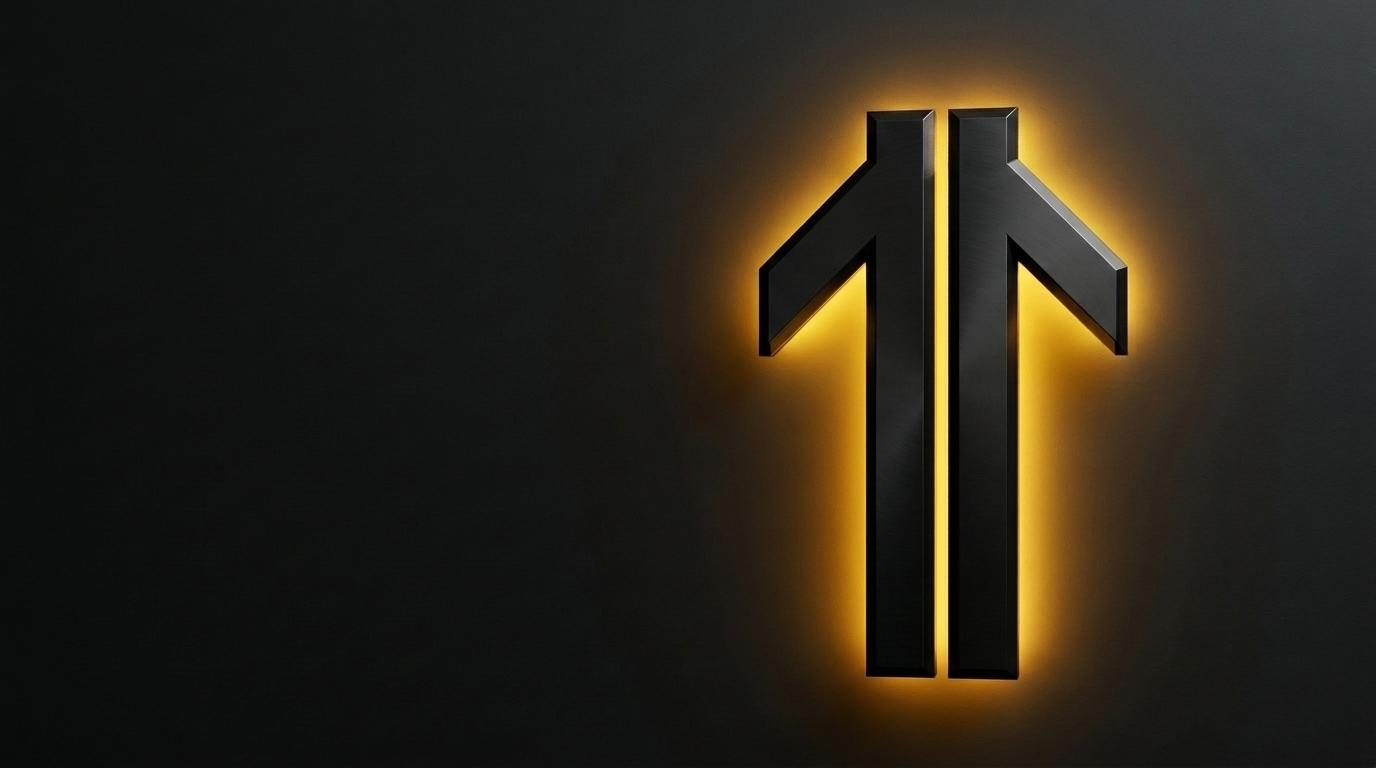
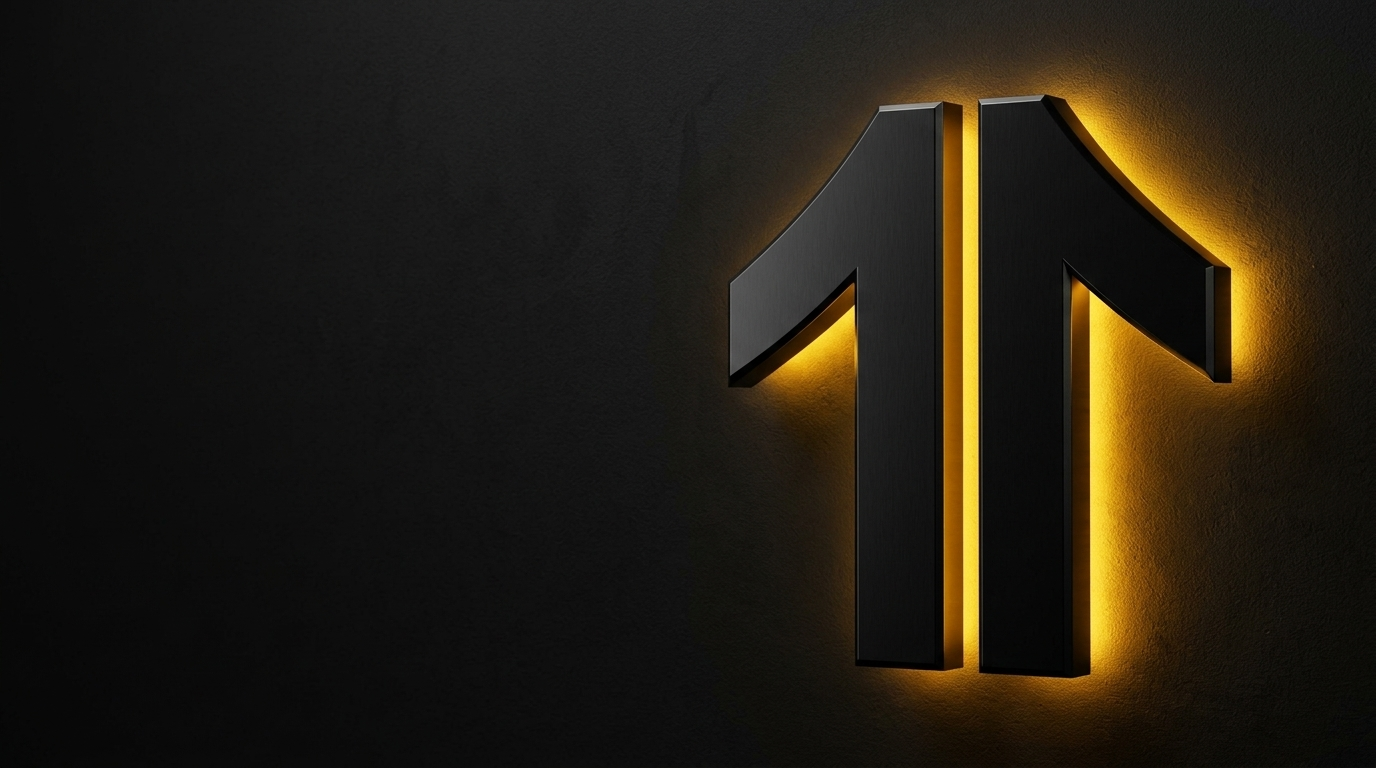
fix(theme): alto contraste en toast de notificaciones para modo claro y oscuro, y nuevo wallpaper 3D con corte exacto del brand UPN

Changed region(s): [[0.5, 0.0, 1.0, 0.9688]]

diff --git a/src/components/LiveNotificationToast.tsx b/src/components/LiveNotificationToast.tsx
@@ -50,88 +50,30 @@ export const LiveNotificationToast: React.FC<LiveNotificationToastProps> = ({
   if (!notification) return null;
 
   return (
-    <div
-      className={`live-toast-notification ${isClosing ? 'closing' : ''}`}
-      style={{
-        position: 'fixed',
-        top: '20px',
-        right: '20px',
-        zIndex: 10002,
-        maxWidth: '380px',
-        width: 'calc(100vw - 40px)',
-        borderRadius: '14px',
-        backgroundColor: 'var(--bg-acrylic-popover, #0f172a)',
-        color: 'var(--text-primary, #ffffff)',
-        backdropFilter: 'blur(20px)',
-        WebkitBackdropFilter: 'blur(20px)',
-        border: '1.5px solid var(--accent-primary, #6366f1)',
-        boxShadow: '0 20px 45px -10px rgba(0, 0, 0, 0.45), 0 0 20px rgba(99, 102, 241, 0.35)',
-        overflow: 'hidden',
-        animation: 'slideInRight 0.35s cubic-bezier(0.16, 1, 0.3, 1)'
-      }}
-    >
+    <div className={`live-toast-notification ${isClosing ? 'closing' : ''}`}>
       <div style={{ padding: '14px 16px', display: 'flex', alignItems: 'flex-start', gap: '12px' }}>
         {/* Animated Chime Icon */}
-        <div
-          style={{
-            width: '38px',
-            height: '38px',
-            borderRadius: '10px',
-            backgroundColor: 'rgba(99, 102, 241, 0.2)',
-            border: '1px solid var(--accent-primary)',
-            display: 'flex',
-            alignItems: 'center',
-            justifyContent: 'center',
-            color: 'var(--accent-primary)',
-            flexShrink: 0,
-            animation: 'pulse 1.8s infinite'
-          }}
-        >
-          <Headphones size={20} />
+        <div className="live-toast-icon-box">
+          <Headphones size={20} strokeWidth={2.4} />
         </div>
 
         {/* Info */}
         <div style={{ flex: 1, minWidth: 0 }}>
-          <div style={{ display: 'flex', alignItems: 'center', gap: '6px', marginBottom: '2px' }}>
-            <span
-              style={{
-                fontSize: '0.62rem',
-                fontWeight: 900,
-                textTransform: 'uppercase',
-                letterSpacing: '0.06em',
-                padding: '2px 6px',
-                borderRadius: '4px',
-                backgroundColor: '#ef4444',
-                color: '#ffffff'
-              }}
-            >
+          <div style={{ display: 'flex', alignItems: 'center', gap: '6px', marginBottom: '3px' }}>
+            <span className="live-toast-badge">
               Nuevo Ticket STIVIE
             </span>
-            <span style={{ fontSize: '0.68rem', color: 'var(--text-muted)' }}>
+            <span className="live-toast-meta">
               {notification.ticketId}
             </span>
           </div>
 
-          <div style={{ fontSize: '0.82rem', fontWeight: 800, color: 'var(--text-primary)', marginBottom: '3px' }}>
-            {notification.userName || 'Usuario Docente'}{' '}
-            <span style={{ fontSize: '0.74rem', fontWeight: 600, color: 'var(--text-secondary)' }}>
-              ({notification.hostname})
-            </span>
+          <div style={{ marginBottom: '4px' }}>
+            <span className="live-toast-user">{notification.userName || 'Usuario Docente'}</span>{' '}
+            <span className="live-toast-host">({notification.hostname})</span>
           </div>
 
-          <div
-            style={{
-              fontSize: '0.74rem',
-              color: 'var(--text-secondary)',
-              lineHeight: 1.35,
-              overflow: 'hidden',
-              textOverflow: 'ellipsis',
-              display: '-webkit-box',
-              WebkitLineClamp: 2,
-              WebkitBoxOrient: 'vertical',
-              marginBottom: '10px'
-            }}
-          >
+          <div className="live-toast-desc">
             "{notification.description}"
           </div>
 
@@ -142,10 +84,10 @@ export const LiveNotificationToast: React.FC<LiveNotificationToastProps> = ({
               onClick={() => onAtender(notification)}
               className="btn-primary"
               style={{
-                padding: '5px 12px',
+                padding: '6px 14px',
                 fontSize: '0.74rem',
                 fontWeight: 800,
-                borderRadius: '6px',
+                borderRadius: '8px',
                 display: 'inline-flex',
                 alignItems: 'center',
                 gap: '6px',
@@ -153,9 +95,9 @@ export const LiveNotificationToast: React.FC<LiveNotificationToastProps> = ({
               }}
             >
               <span>Atender Ahora</span>
-              <ArrowRight size={13} />
+              <ArrowRight size={13} strokeWidth={2.5} />
             </button>
-            <span style={{ fontSize: '0.68rem', color: 'var(--text-muted)' }}>
+            <span className="live-toast-meta">
               {notification.category}
             </span>
           </div>
@@ -165,22 +107,21 @@ export const LiveNotificationToast: React.FC<LiveNotificationToastProps> = ({
         <button
           type="button"
           onClick={requestClose}
-          className="btn-flat"
-          style={{ width: '22px', height: '22px', padding: 0, borderRadius: '4px', color: 'var(--text-muted)' }}
+          className="modal-close-btn"
+          style={{ width: '28px', height: '28px', minWidth: '28px', minHeight: '28px' }}
           title="Cerrar aviso"
+          aria-label="Cerrar aviso"
         >
-          <X size={13} />
+          <X size={14} strokeWidth={2.4} />
         </button>
       </div>
 
       {/* Progress countdown bar */}
-      <div style={{ width: '100%', height: '3px', backgroundColor: 'rgba(255, 255, 255, 0.08)' }}>
+      <div className="live-toast-progress-track">
         <div
+          className="live-toast-progress-bar"
           style={{
-            height: '100%',
-            width: `${progress}%`,
-            backgroundColor: 'var(--accent-primary, #6366f1)',
-            transition: 'width 0.05s linear'
+            width: `${progress}%`
           }}
         />
       </div>

diff --git a/src/index.css b/src/index.css
@@ -128,6 +128,7 @@
   --glass-shadow: 0 18px 45px -8px rgba(0, 0, 0, 0.75), 0 0 0 1px rgba(255, 184, 0, 0.12);
 
   --bg-popover: #0b132b;
+  --bg-acrylic-popover: #0b132b;
   --popover-shadow: 0 20px 50px rgba(0, 0, 0, 0.85), 0 0 0 1px rgba(255, 184, 0, 0.20);
 
   --text-primary: #f8fafc;
@@ -187,6 +188,7 @@
   --glass-shadow: 0 10px 30px -5px rgba(15, 23, 42, 0.08), 0 0 0 1px rgba(226, 232, 240, 0.8);
 
   --bg-popover: #ffffff;
+  --bg-acrylic-popover: #ffffff;
   --popover-shadow: 0 18px 45px rgba(15, 23, 42, 0.12), 0 0 0 1px #cbd5e1;
 
   --text-primary: #0f172a;         /* Deep Slate / Charcoal (100% Crisp) */
@@ -700,6 +702,120 @@ code, pre, .font-mono {
 .live-toast-notification.closing {
   animation: slideOutRight 0.22s cubic-bezier(0.4, 0, 0.2, 1) forwards !important;
   pointer-events: none !important;
+}
+
+/* Live Toast Notification (Soporte STIVIE en Tiempo Real con Alto Contraste en Modo Claro y Oscuro) */
+.live-toast-notification {
+  position: fixed;
+  top: 20px;
+  right: 20px;
+  z-index: 10002;
+  max-width: 390px;
+  width: calc(100vw - 40px);
+  border-radius: 16px;
+  background-color: var(--bg-popover, #0b132b) !important;
+  color: var(--text-primary) !important;
+  backdrop-filter: blur(20px) saturate(180%);
+  -webkit-backdrop-filter: blur(20px) saturate(180%);
+  border: 1.5px solid var(--accent-primary) !important;
+  box-shadow: 0 20px 50px rgba(0, 0, 0, 0.70), 0 0 25px rgba(255, 184, 0, 0.25) !important;
+  overflow: hidden;
+  animation: slideInRight 0.35s cubic-bezier(0.16, 1, 0.3, 1);
+}
+
+.live-toast-icon-box {
+  width: 38px;
+  height: 38px;
+  border-radius: 10px;
+  background-color: rgba(255, 184, 0, 0.14);
+  border: 1px solid var(--accent-primary);
+  display: flex;
+  align-items: center;
+  justify-content: center;
+  color: var(--accent-primary);
+  flex-shrink: 0;
+  animation: pulse 1.8s infinite;
+}
+
+.live-toast-badge {
+  font-size: 0.62rem;
+  font-weight: 900;
+  text-transform: uppercase;
+  letter-spacing: 0.06em;
+  padding: 2px 7px;
+  border-radius: 5px;
+  background-color: #ef4444;
+  color: #ffffff !important;
+}
+
+.live-toast-user {
+  font-size: 0.84rem;
+  font-weight: 800;
+  color: var(--text-primary);
+}
+
+.live-toast-host {
+  font-size: 0.74rem;
+  font-weight: 700;
+  color: var(--text-secondary);
+}
+
+.live-toast-desc {
+  font-size: 0.75rem;
+  color: var(--text-secondary);
+  line-height: 1.38;
+  overflow: hidden;
+  text-overflow: ellipsis;
+  display: -webkit-box;
+  -webkit-line-clamp: 2;
+  -webkit-box-orient: vertical;
+  margin-bottom: 10px;
+}
+
+.live-toast-meta {
+  font-size: 0.68rem;
+  font-weight: 700;
+  color: var(--text-muted);
+}
+
+.live-toast-progress-track {
+  width: 100%;
+  height: 3px;
+  background-color: rgba(255, 255, 255, 0.12);
+}
+
+.live-toast-progress-bar {
+  height: 100%;
+  background-color: var(--accent-primary, #ffb800);
+  transition: width 0.05s linear;
+}
+
+/* Modo Claro: Alto Contraste, fondo blanco puro nítido y texto oscuro legible */
+[data-mode="light"] .live-toast-notification {
+  background-color: #ffffff !important;
+  color: #0f172a !important;
+  border: 1.5px solid var(--accent-primary) !important;
+  box-shadow: 0 18px 45px rgba(15, 23, 42, 0.16), 0 0 0 1px rgba(0, 0, 0, 0.06), 0 0 20px rgba(255, 184, 0, 0.20) !important;
+}
+
+[data-mode="light"] .live-toast-notification .live-toast-user {
+  color: #0f172a !important;
+}
+
+[data-mode="light"] .live-toast-notification .live-toast-host {
+  color: #334155 !important;
+}
+
+[data-mode="light"] .live-toast-notification .live-toast-desc {
+  color: #1e293b !important;
+}
+
+[data-mode="light"] .live-toast-notification .live-toast-meta {
+  color: #64748b !important;
+}
+
+[data-mode="light"] .live-toast-notification .live-toast-progress-track {
+  background-color: #e2e8f0 !important;
 }
 
 @keyframes fadeIn {
